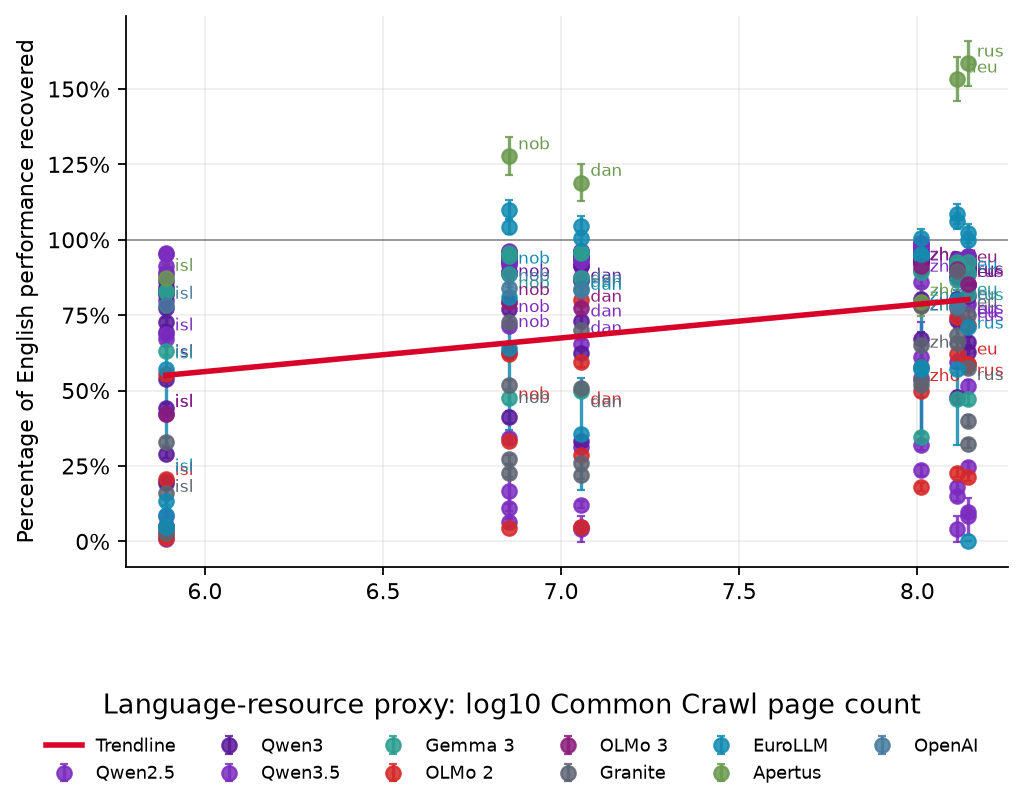
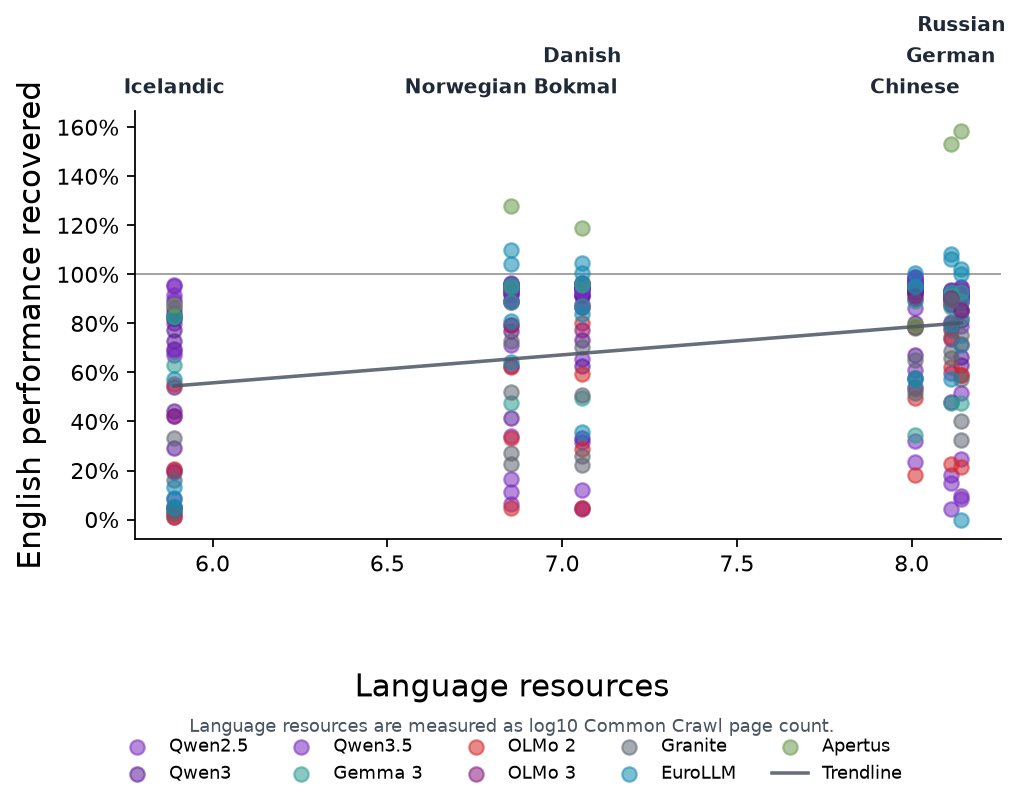
Simplify transfer feature plots

diff --git a/paper/scripts/transferfeatures.py b/paper/scripts/transferfeatures.py
@@ -79,9 +79,15 @@ def relationship_plot(
     xlabel: str,
     out: Path,
     use_script_shapes: bool = False,
+    footnote: str | None = None,
+    label_languages: bool = True,
 ) -> list[Path]:
     """Plot a descriptive feature relationship for the synthetic split only."""
-    plot_data = data.dropna(subset=[x_column, "performance_recovered"])
+    plot_data = data[
+        (data["language"] != "eng_metric") & (data["family"] != "OpenAI")
+    ].dropna(
+        subset=[x_column, "performance_recovered"]
+    )
     if plot_data.empty:
         return []
 
@@ -90,7 +96,7 @@ def relationship_plot(
     if panel.empty:
         return []
 
-    fig, ax = plt.subplots(figsize=(6.5, 5))
+    fig, ax = plt.subplots(figsize=(6.5, 5.3 if use_script_shapes else 5))
 
     for family in ordered_families(panel["family"]):
         family_rows = panel[panel["family"] == family]
@@ -98,64 +104,84 @@ def relationship_plot(
             for row in family_rows.itertuples():
                 script = LANGUAGE_SCRIPTS.get(row.language, "Latin")
                 marker = SCRIPT_MARKERS.get(script, "o")
-                ax.errorbar(
+                ax.scatter(
                     getattr(row, x_column),
                     row.performance_recovered,
-                    yerr=row.performance_recovered_stderr,
-                    fmt=marker,
-                    markersize=6.5,
-                    capsize=2,
-                    alpha=0.85,
+                    marker=marker,
+                    s=42,
+                    alpha=0.55,
                     color=FAMILY_COLORS.get(family, "#666666"),
                     zorder=3,
                 )
         else:
-            ax.errorbar(
+            ax.scatter(
                 family_rows[x_column],
                 family_rows["performance_recovered"],
-                yerr=family_rows["performance_recovered_stderr"],
-                fmt="o",
-                markersize=6.5,
-                capsize=2,
-                alpha=0.85,
+                marker="o",
+                s=42,
+                alpha=0.55,
                 color=FAMILY_COLORS.get(family, "#666666"),
                 label=family,
                 zorder=3,
             )
 
-    label_positions = panel.groupby(["family", "language"], as_index=False).agg(
-        x=(x_column, "mean"), y=("performance_recovered", "mean")
-    )
-    label_positions["family_order"] = label_positions["family"].map(FAMILY_ORDER).fillna(99)
-    label_positions = label_positions.sort_values(["family_order", "language"])
-    for row in label_positions.itertuples(index=False):
-        ax.annotate(
-            row.language,
-            (row.x, row.y),
-            xytext=(4, 3),
-            textcoords="offset points",
-            fontsize=7.5,
-            color=FAMILY_COLORS.get(row.family, "#666666"),
-        )
-
-    # Make trendline pop out prominently in vibrant crimson red
+    # Use a restrained neutral trendline so it does not compete with model colors.
     unique_x = panel[x_column].nunique()
+    slope: float | None = None
+    intercept: float | None = None
     if len(panel) >= 3 and unique_x >= 2:
         slope, intercept = np.polyfit(panel[x_column], panel["performance_recovered"], 1)
         x_line = np.linspace(panel[x_column].min(), panel[x_column].max(), 100)
         ax.plot(
             x_line,
             slope * x_line + intercept,
-            color="#D90429",
+            color="#4B5563",
             linestyle="-",
-            linewidth=2.5,
-            zorder=5,
+            linewidth=1.6,
+            alpha=0.85,
+            zorder=4,
             label="Trendline",
         )
 
+    if label_languages:
+        label_positions = (
+            panel.groupby("language", as_index=False)
+            .agg(x=(x_column, "mean"))
+            .sort_values("x")
+        )
+        x_span = max(float(panel[x_column].max() - panel[x_column].min()), 1e-9)
+        lane_last_x: list[float] = []
+        for row in label_positions.itertuples(index=False):
+            lane = next(
+                (
+                    index
+                    for index, previous_x in enumerate(lane_last_x)
+                    if row.x - previous_x >= 0.12 * x_span
+                ),
+                len(lane_last_x),
+            )
+            if lane == len(lane_last_x):
+                lane_last_x.append(row.x)
+            else:
+                lane_last_x[lane] = row.x
+            ax.annotate(
+                LANGUAGE_LABELS.get(row.language, row.language),
+                xy=(row.x, 1),
+                xycoords=ax.get_xaxis_transform(),
+                xytext=(0, 6 + 14 * lane),
+                textcoords="offset points",
+                ha="center",
+                va="bottom",
+                fontsize=9,
+                fontweight="bold",
+                color="#1F2937",
+                bbox={"facecolor": "white", "edgecolor": "none", "alpha": 0.82, "pad": 1.5},
+                annotation_clip=False,
+                zorder=6,
+            )
+
     ax.axhline(1, color="black", linewidth=0.8, alpha=0.4, zorder=2)
-    ax.grid(alpha=0.2)
-    ax.set_ylabel("Percentage of English performance recovered")
+    ax.set_ylabel("English performance recovered", fontsize=14)
     ax.yaxis.set_major_formatter(PercentFormatter(1))
 
     if use_script_shapes:
@@ -184,15 +210,28 @@ def relationship_plot(
             )
             for s in present_scripts
         ]
-        trend_handle = [Line2D([0], [0], color="#D90429", lw=2.5, label="Trendline")]
-        all_handles = family_handles + script_handles + trend_handle
+        trend_handle = [Line2D([0], [0], color="#4B5563", lw=1.6, alpha=0.85, label="Trendline")]
         fig.legend(
-            all_handles,
-            [h.get_label() for h in all_handles],
-            loc="lower center",
-            ncol=math.ceil(len(all_handles) / 2),
+            family_handles + trend_handle,
+            [h.get_label() for h in family_handles + trend_handle],
+            title="Model family",
+            loc="upper left",
+            bbox_to_anchor=(0.02, 0.115),
+            ncol=3,
             frameon=False,
             fontsize=8,
+            title_fontsize=8,
+        )
+        fig.legend(
+            script_handles,
+            [h.get_label().removeprefix("Script: ") for h in script_handles],
+            title="Language script",
+            loc="upper right",
+            bbox_to_anchor=(0.98, 0.115),
+            ncol=2,
+            frameon=False,
+            fontsize=8,
+            title_fontsize=8,
         )
     else:
         handles, labels = ax.get_legend_handles_labels()
@@ -206,8 +245,13 @@ def relationship_plot(
                 fontsize=8,
             )
 
-    fig.supxlabel(xlabel, y=0.09)
-    fig.tight_layout(rect=(0, 0.14, 1, 1))
+    bottom_margin = 0.16 if use_script_shapes else (0.17 if footnote else 0.14)
+    xlabel_y = 0.18 if use_script_shapes else (0.11 if footnote else 0.09)
+    fig.supxlabel(xlabel, y=xlabel_y, fontsize=14)
+    if footnote:
+        footnote_y = 0.145 if use_script_shapes else 0.075
+        fig.text(0.5, footnote_y, footnote, ha="center", fontsize=8, color="#4B5563")
+    fig.tight_layout(rect=(0, bottom_margin, 1, 1))
     out.parent.mkdir(parents=True, exist_ok=True)
     fig.savefig(out, bbox_inches="tight")
     plt.close(fig)
@@ -427,7 +471,9 @@ def build_transfer_table(
             }
         )
     )
-    transfer = values[values["language"] != "eng"].merge(
+    transfer = values[
+        ~values["language"].isin({"eng", "eng_metric"}) & (values["family"] != "OpenAI")
+    ].merge(
         english,
         on=["model_raw", "model", "family", "params_b", "split"],
         how="inner",
@@ -514,25 +560,40 @@ def main() -> None:
     plots = [
         (
             "normalized_fertility",
-            "TFR: target-language tokens/character divided by English tokens/character. Computed on GSM8K templates.",
+            "Tokenizer fertility ratio",
             args.out_dir / "tokenizer_fertility_vs_transfer.png",
             True,
+            "Ratio of target-language to English tokens per character, computed on GSM8K templates.",
+            False,
         ),
         (
             "typological_distance_from_english",
-            "URIEL cosine distance from English (syntax features)",
+            "Typological distance",
             args.out_dir / "typological_distance_vs_transfer.png",
             False,
+            "Typological distance is cosine distance from English using URIEL syntax features.",
+            True,
         ),
         (
             "log10_common_crawl_pages",
-            "Language-resource proxy: log10 Common Crawl page count",
+            "Language resources",
             args.out_dir / "resource_quantity_vs_transfer.png",
             False,
+            "Language resources are measured as log10 Common Crawl page count.",
+            True,
         ),
     ]
-    for column, xlabel, path, use_script_shapes in plots:
-        if saved_plots := relationship_plot(transfer, column, xlabel, path, use_script_shapes=use_script_shapes):
+    for plot in plots:
+        column, xlabel, path, use_script_shapes, footnote, label_languages = plot
+        if saved_plots := relationship_plot(
+            transfer,
+            column,
+            xlabel,
+            path,
+            use_script_shapes=use_script_shapes,
+            footnote=footnote,
+            label_languages=label_languages,
+        ):
             for saved_plot in saved_plots:
                 print(f"Saved {saved_plot}")
         else:
